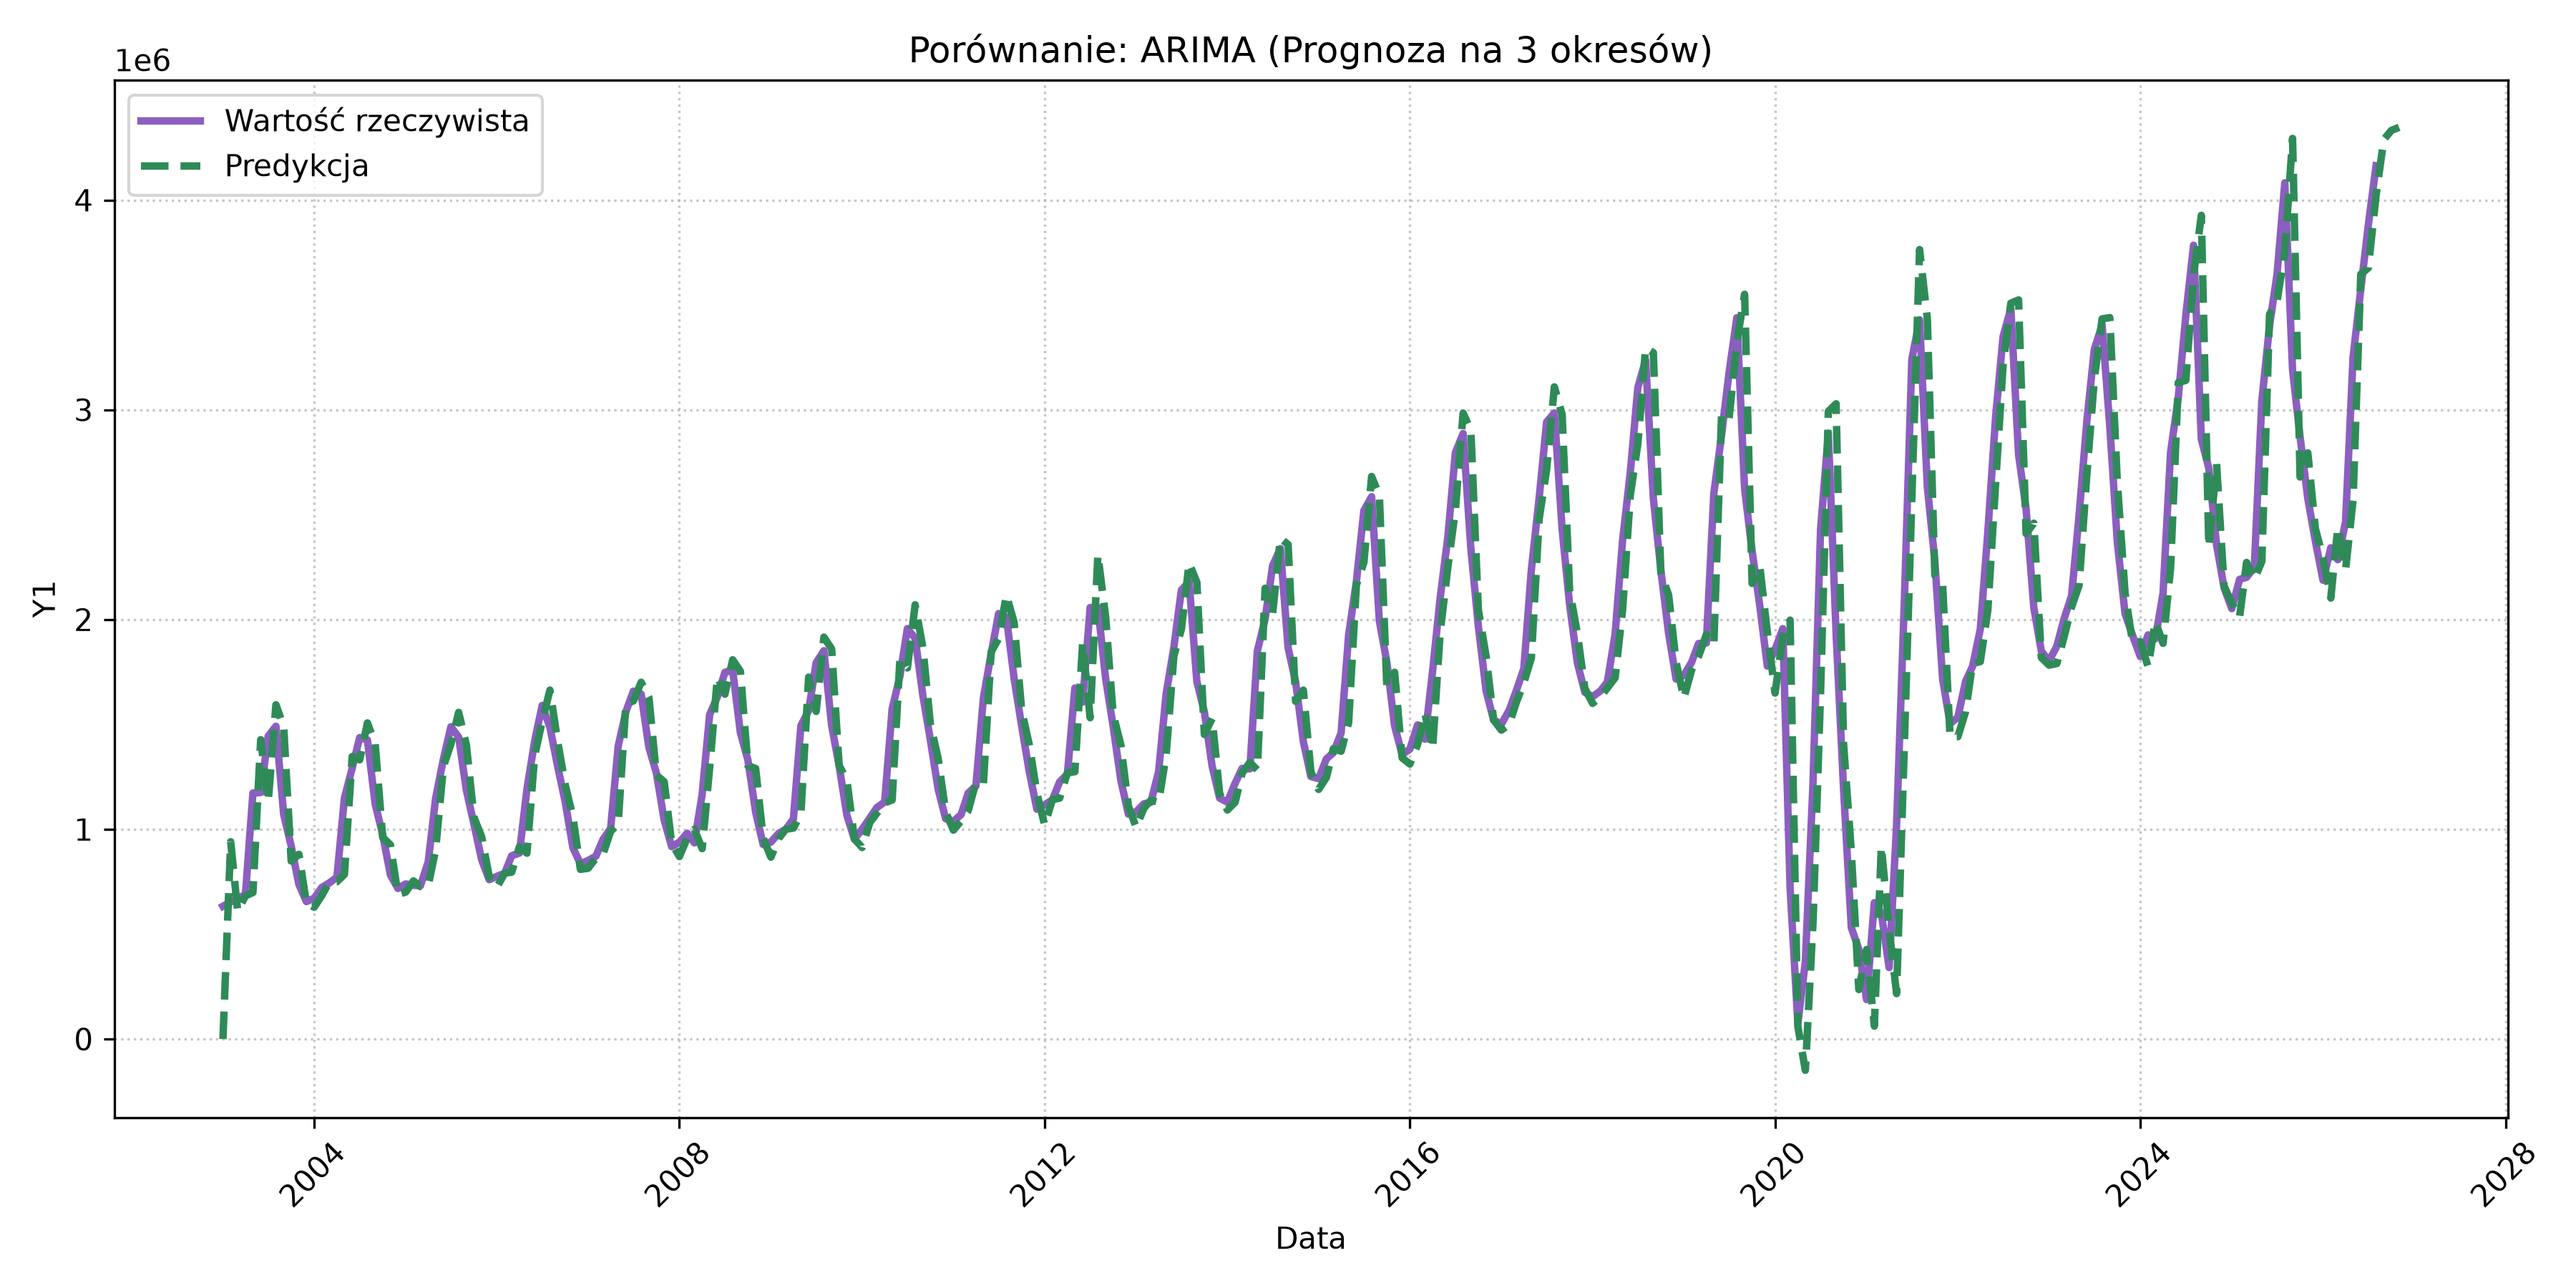
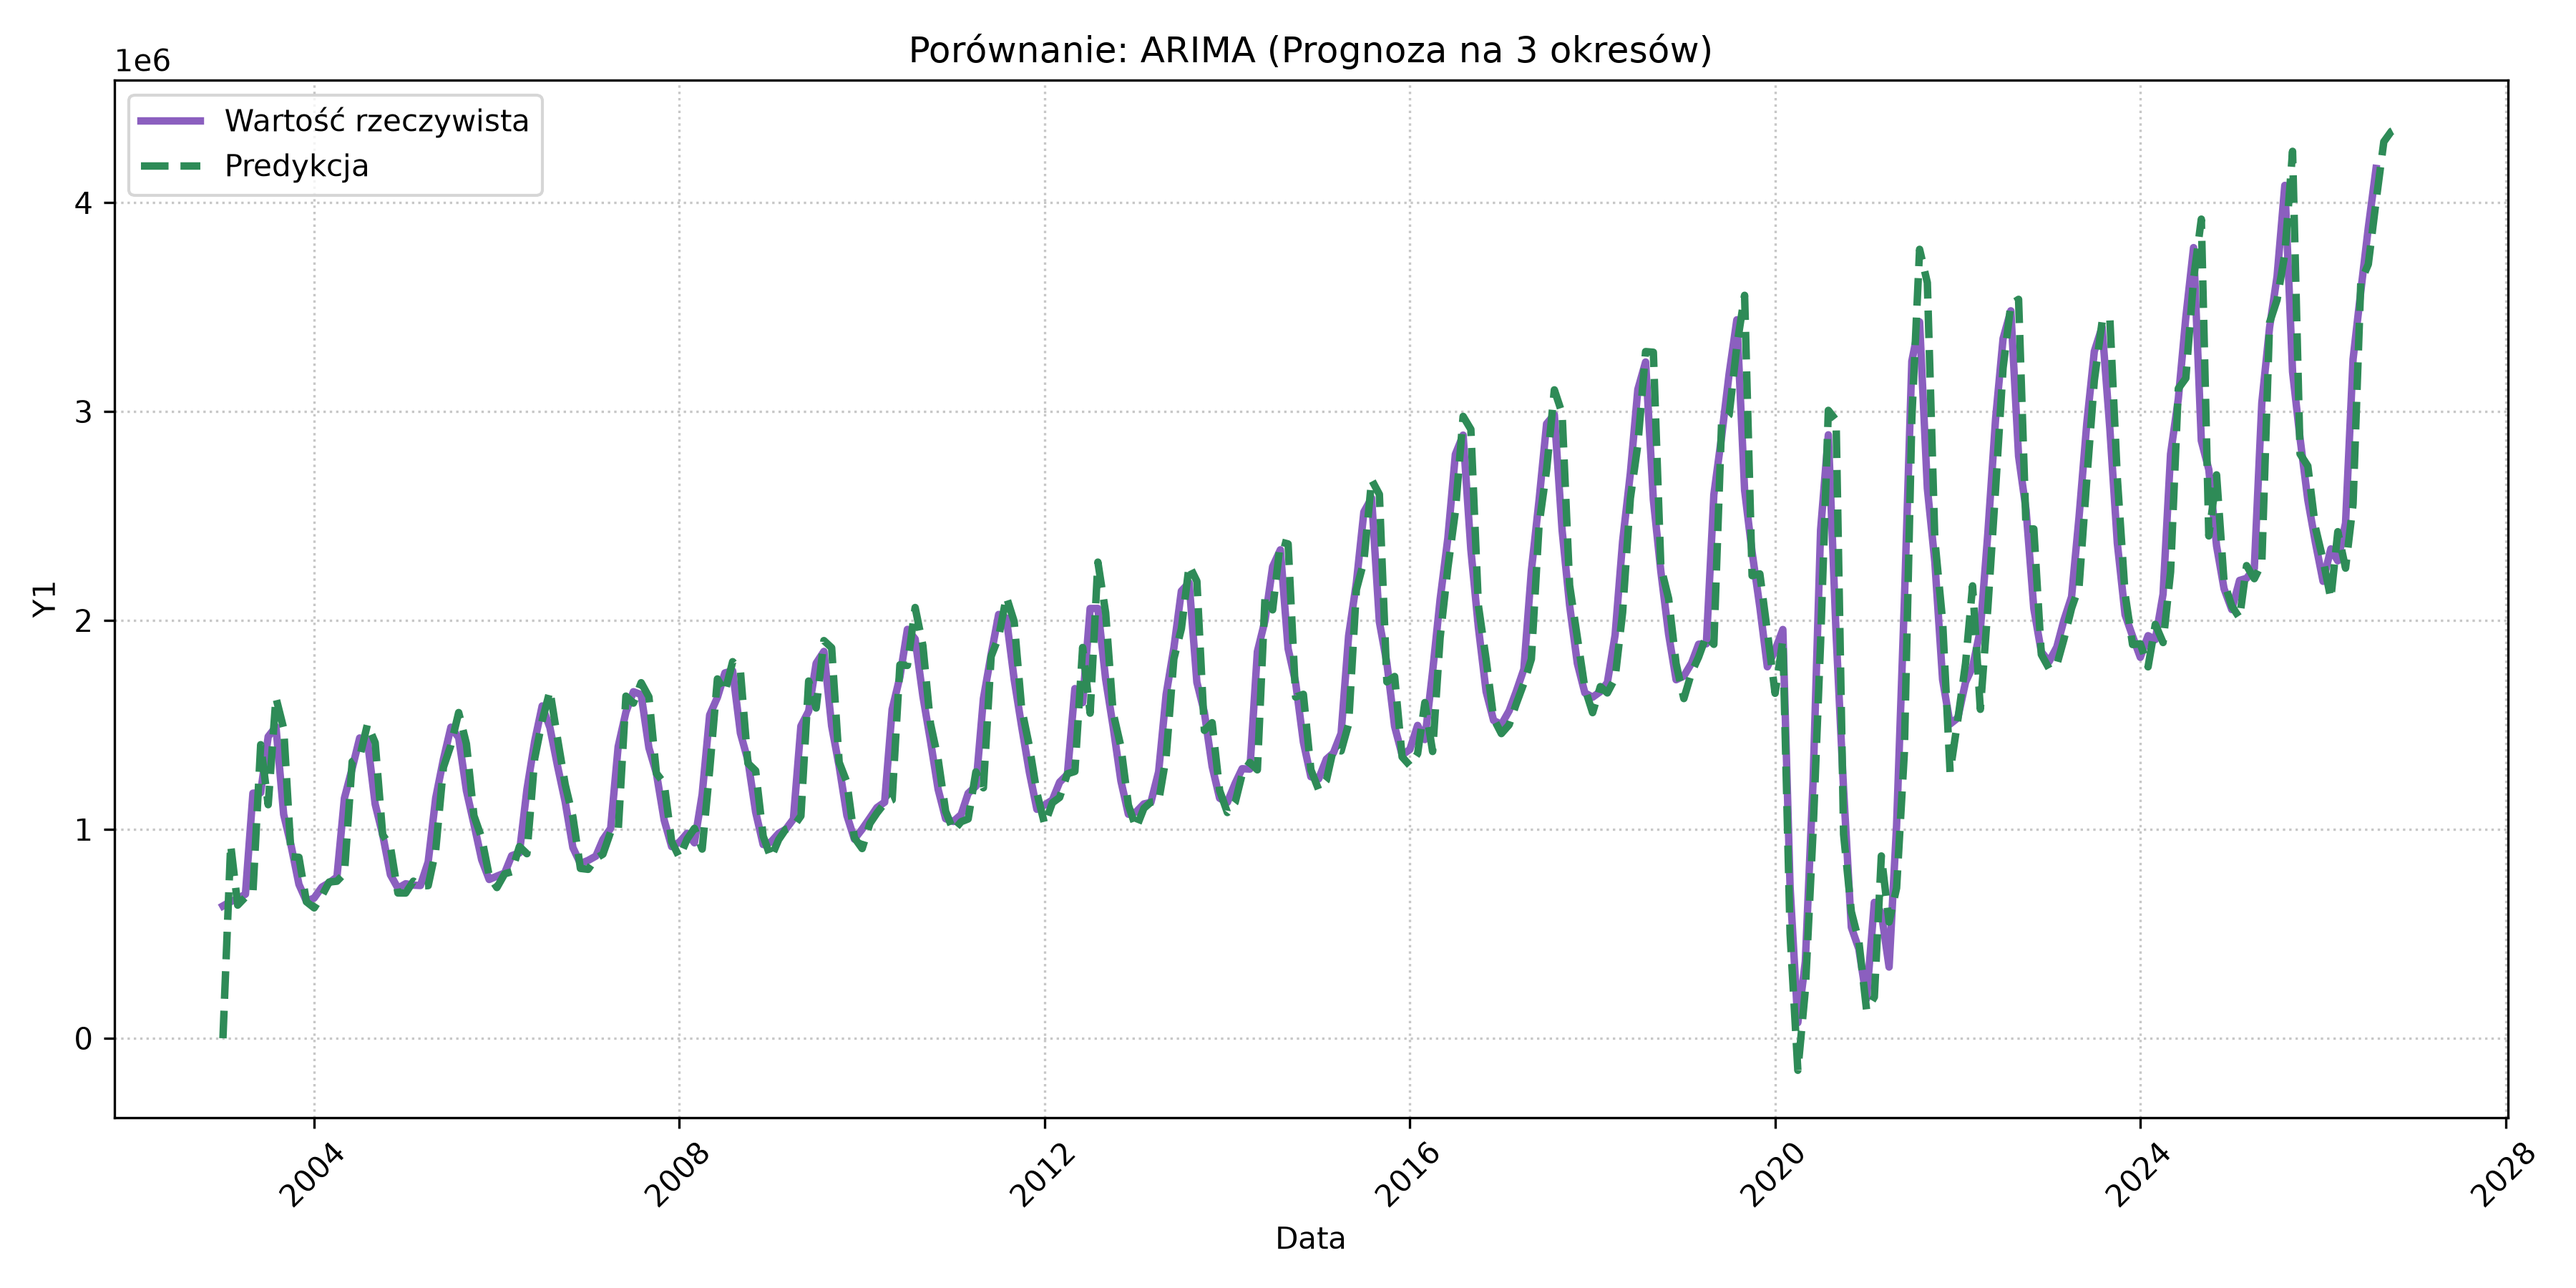
Rozbudowanie main oraz rozpoczęcie pracy na README

diff --git a/main.py b/main.py
@@ -1,7 +1,5 @@
+from pliki_operacje import wybor_kolumn, zapisz_prognoze, zapisz_wykres
 from modele.ARIMA import prognozuj_arima
-from pliki_operacje.wczytanie_xlsx import wybor_kolumn
-from pliki_operacje.zapis_xlsx import zapisz_prognoze
-from pliki_operacje.generowanie_wykresu import zapisz_wykres
 
 
 
@@ -9,15 +7,100 @@ def main() -> None:
     print("--- Start programu: Generator Szeregów Czasowych ---")
 
     # 1. Wczytanie i przygotowanie danych
-    df, df_przyszle, horyzont = wybor_kolumn()
+    wyniki = wybor_kolumn()
 
-    if df is not None:
-        # 2. Generowanie prognozy
-        prognoza = prognozuj_arima(df, df_przyszle, horyzont)
+    # Zabezpieczenie na wypadek, gdyby wybor_kolumn() zwróciło błąd
+    if wyniki[0] is None:
+        print("\nBłąd podczas wczytywania danych. Zatrzymuję program.")
+        return
 
-        # 3. Zapis wyników (Tabela .xlsx oraz Wykres .png)
-        zapisz_prognoze(df, prognoza, nazwa_modelu="ARIMA", horyzont=horyzont)
-        zapisz_wykres(df, prognoza, nazwa_modelu="ARIMA", horyzont=horyzont)
+    df, df_przyszle, horyzont = wyniki
+
+    # 2. Wybór modelu przez użytkownika
+    print("\nDostępne modele:")
+    print(" 1. ARIMA       6. ETS         11. NNAR       16. STS")
+    print(" 2. ARDL        7. GAM         12. PROPHET    17. TFT")
+    print(" 3. BTST        8. GAMLSS      13. SARIMA     18. THETA")
+    print(" 4. CROSTON     9. GRU         14. SARIMAX    19. XG_BOOST")
+    print(" 5. DHR        10. LSTM        15. STLS")
+
+    wybor = input("\nWpisz nazwę modelu, którego chcesz użyć (np. ARIMA): ").strip().upper()
+
+    prognoza = None
+    nazwa_modelu = wybor
+
+    # 3. match case do obsługi wyboru każdego z plików
+    match wybor:
+        case "ARIMA":
+            prognoza = prognozuj_arima(df, df_przyszle, horyzont)
+
+        case "ARDL":
+            print(f"\nUruchamianie modelu {wybor}... (Wymaga uzupełnienia pliku {wybor}.py)")
+
+        case "BTST":
+            print(f"\nUruchamianie modelu {wybor}... (Wymaga uzupełnienia pliku {wybor}.py)")
+
+        case "CROSTON":
+            print(f"\nUruchamianie modelu {wybor}... (Wymaga uzupełnienia pliku {wybor}.py)")
+
+        case "DHR":
+            print(f"\nUruchamianie modelu {wybor}... (Wymaga uzupełnienia pliku {wybor}.py)")
+
+        case "ETS":
+            print(f"\nUruchamianie modelu {wybor}... (Wymaga uzupełnienia pliku {wybor}.py)")
+
+        case "GAM":
+            print(f"\nUruchamianie modelu {wybor}... (Wymaga uzupełnienia pliku {wybor}.py)")
+
+        case "GAMLSS":
+            print(f"\nUruchamianie modelu {wybor}... (Wymaga uzupełnienia pliku {wybor}.py)")
+
+        case "GRU":
+            print(f"\nUruchamianie modelu {wybor}... (Wymaga uzupełnienia pliku {wybor}.py)")
+
+        case "LSTM":
+            print(f"\nUruchamianie modelu {wybor}... (Wymaga uzupełnienia pliku {wybor}.py)")
+
+        case "NNAR":
+            print(f"\nUruchamianie modelu {wybor}... (Wymaga uzupełnienia pliku {wybor}.py)")
+
+        case "PROPHET":
+            print(f"\nUruchamianie modelu {wybor}... (Wymaga uzupełnienia pliku {wybor}.py)")
+
+        case "SARIMA":
+            print(f"\nUruchamianie modelu {wybor}... (Wymaga uzupełnienia pliku {wybor}.py)")
+
+        case "SARIMAX":
+            print(f"\nUruchamianie modelu {wybor}... (Wymaga uzupełnienia pliku {wybor}.py)")
+
+        case "STLS":
+            print(f"\nUruchamianie modelu {wybor}... (Wymaga uzupełnienia pliku {wybor}.py)")
+
+        case "STS":
+            print(f"\nUruchamianie modelu {wybor}... (Wymaga uzupełnienia pliku {wybor}.py)")
+
+        case "TFT":
+            print(f"\nUruchamianie modelu {wybor}... (Wymaga uzupełnienia pliku {wybor}.py)")
+
+        case "THETA":
+            print(f"\nUruchamianie modelu {wybor}... (Wymaga uzupełnienia pliku {wybor}.py)")
+
+        case "XG_BOOST":
+            print(f"\nUruchamianie modelu {wybor}... (Wymaga uzupełnienia pliku {wybor}.py)")
+
+        case _:
+            print(f"\nBłąd: Nie rozpoznano modelu '{wybor}'. Upewnij się, że nazwa została wpisana poprawnie.")
+
+    # 4. Zapis wyników (Tabela .xlsx oraz Wykres .png)
+    if prognoza is not None:
+        zapisz_prognoze(df, prognoza, nazwa_modelu, horyzont)
+        zapisz_wykres(df, prognoza, nazwa_modelu, horyzont)
+        print(f"\nGenerowanie plików dla modelu {nazwa_modelu} zakończone pomyślnie.")
+    else:
+        if wybor in ["ARIMA"]:  # Lista gotowych modeli
+            print("\nWystąpił problem z wygenerowaniem prognozy.")
+        else:
+            print(f"\nModel {wybor} nie wygenerował danych, ponieważ jego logika nie została jeszcze napisana.")
 
     print("\n--- Zakończono działanie programu ---")
 

diff --git a/pliki_operacje/__init__.py b/pliki_operacje/__init__.py
@@ -1,3 +1,9 @@
 from .wczytanie_xlsx import wybor_kolumn
+from .zapis_xlsx import zapisz_prognoze
+from .generowanie_wykresu import zapisz_wykres
 
-__all__ = ["wybor_kolumn"]
+__all__ = [
+    "wybor_kolumn",
+    "zapisz_prognoze",
+    "zapisz_wykres"
+]

diff --git a/README.md b/README.md
@@ -1,1 +1,25 @@
-# Generator-szeregow-czasowych
+# Generator szeregow czasowych
+
+## Przebieg programu
+
+### Inicjalizacja i pobranie ustawień
+* Użytkownik uruchamia plik main
+* Użytkownik jest proszony o podanie danych:
+  * Nazwę pliku
+  * Wskazanie odpowienich kolumn
+  * Występowanie regresorów
+  * Na ile okresów generować prognoze (miesięcy/kwartałów/lat)
+  
+### Oczyszczenie i budowa struktury
+* Tworzenie wskazanych danych w jedną tabelę
+* Daty są odpowednio przystosowane pod działanie pythona
+* Data staje się indeksem tabeli
+* Program ustala odległość miedzy okresami
+
+### Wybór algorytmu i przekierowanie strumienia
+
+### Trenowanie modelu i generowanie predykcji
+
+### Zapisanie wyników do Excela
+
+### Generowanie wizualizacji
